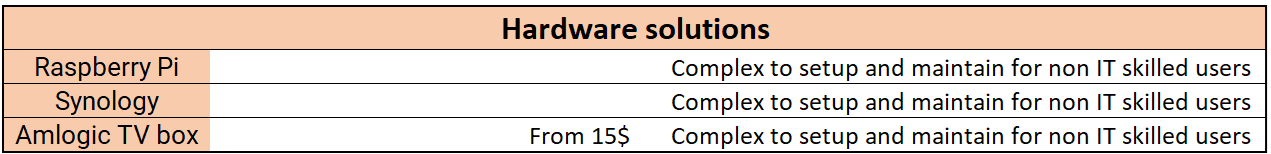
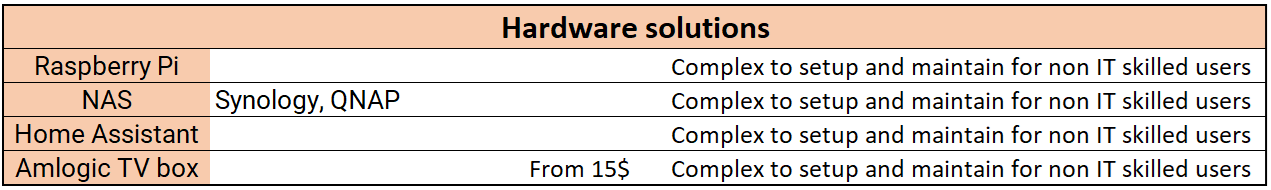
Reorder HW solutions

diff --git a/docs/nightscout/new_user.md b/docs/nightscout/new_user.md
@@ -62,7 +62,7 @@ These solutions require specific hardware (they are not cloud based).
 
 Whilst it's not recommended to purchase the hardware for this purpose, if you own it you might consider this option.
 
-You can setup Nightscout on your [NAS](nas), and on some [Amlogic based TV boxes](https://github.com/devmfc/debian-on-amlogic) following [these instructions](https://github.com/Stan-Di/nightscout-amlogic).
+You can setup Nightscout on your [NAS](../advanced/#building-nightscout-inside-your-nas), [Home Assistant](https://github.com/marciogranzotto/addon-nightscout), [Raspberry Pi 4](https://gist.github.com/Andries-Smit/daac75cd4c06af78cde68c5dec941705) computer, and on some [Amlogic based TV boxes](https://github.com/devmfc/debian-on-amlogic) following [these instructions](https://github.com/Stan-Di/nightscout-amlogic).
 
 <img src="./img/Comparison4.png"  width="700px" />
 
